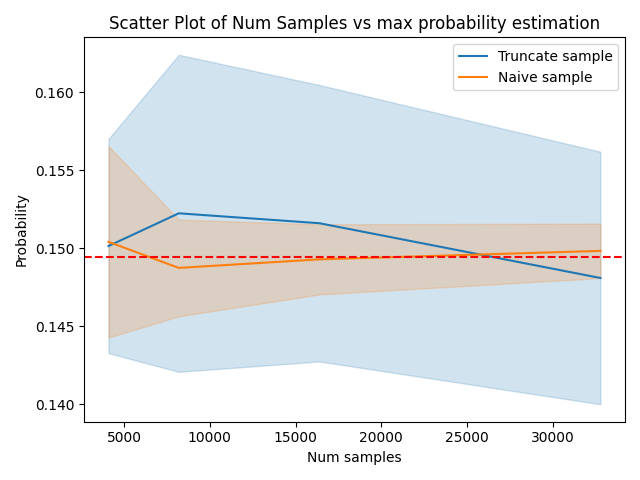
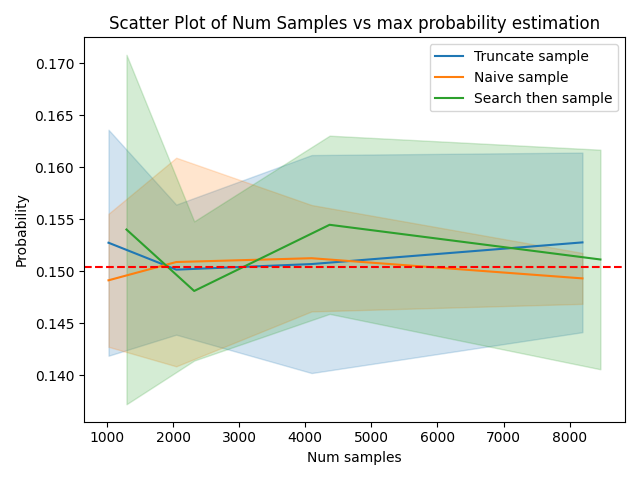
binary search doesnt really help either

diff --git a/logit-estimation/estimators.py b/logit-estimation/estimators.py
@@ -8,13 +8,14 @@ from torch.distributions import Categorical, kl_divergence
 
 @dataclass
 class Output:
-    samples: list[int]
-    true_dist: torch.distributions.Distribution | None
+    samples: list[int] | None = None
+    argmax: int | None = None
+    true_dist: torch.distributions.Distribution | None = None
 
 
 class Sampler(ABC):
     @abstractmethod
-    def sample(self, prefix, n, logit_bias):
+    def sample(self, prefix, n, logit_bias, temperature):
         ...
 
 def construct_logit_bias_tensor(logit_bias_dict, vocab_size):
@@ -28,8 +29,25 @@ class HfSampler(Sampler):
         self.model = AutoModelForCausalLM.from_pretrained(model, torch_dtype=torch.bfloat16)
         self.tokenizer = AutoTokenizer.from_pretrained(model)
         self.vocab_size = len(self.tokenizer)
+        self.cached_logits = None
 
-    def sample(self, prefix, K, logit_bias=None):
+    def sample(self, prefix, K, logit_bias=None, temperature=1):
+        logits = (
+            self.get_true_logits(prefix, K)
+            if self.cached_logits is None
+            else self.cached_logits
+        )
+        if logit_bias is not None:
+            logits = logits + construct_logit_bias_tensor(logit_bias, len(logits))
+
+        true_dist = Categorical(logits=logits)
+        return Output(
+            samples = true_dist.sample_n(K),
+            argmax = logits.argmax().item(),
+            true_dist = true_dist,
+        )
+
+    def get_true_logits(self, prefix, K):
         inputs = self.tokenizer([prefix], return_tensors="pt")
         outputs = self.model.generate(
             **inputs,
@@ -39,25 +57,23 @@ class HfSampler(Sampler):
             do_sample=True,
             #num_return_sequences=1,
         )
-
-        logits = outputs.scores[0][0]
-        if logit_bias is not None:
-            logits = logits + construct_logit_bias_tensor(logit_bias, len(logits))
-        true_dist = Categorical(logits=logits)
-        return Output(
-            samples = true_dist.sample_n(K),
-            true_dist = true_dist,
-        )
+        logits = outputs.scores[0][0].log_softmax(0)
+        self.cached_logits = logits
+        return logits
 
 
 class Estimator:
-    def __init__(self, vocab_size, threshold = 10):
+    def __init__(self, vocab_size, threshold = 10, estimated_logits=None, idxs=None):
         self.vocab_size = vocab_size
         self.samples = []
         self.weights = []
         self.Zs = torch.zeros(vocab_size, dtype=torch.float64)
         self.counts = torch.zeros(vocab_size, dtype=torch.int32)
         self.threshold = threshold
+
+        # already estimated
+        self.estimated_logits = estimated_logits
+        self.idxs = idxs
 
     def add_sample(self, sample_output, weight=1., allowed_words=None):
         for sample in sample_output.samples:
@@ -78,13 +94,20 @@ class Estimator:
     def mean(self):
         if len(self.samples) == 0:
             return None
-        probs = torch.zeros(self.vocab_size) + 1e-75 # smoothing
+        probs = torch.zeros(self.vocab_size) + 1e-20 # smoothing
         probs.scatter_add_(
             0,
             torch.tensor(self.samples, dtype=torch.int64),
             torch.tensor(self.weights),
         )
         probs /= self.Zs
+
+        if self.estimated_logits is not None:
+            #Z1 = probs.log().logsumexp(0)
+            #Z2 = self.estimated_logits.logsumexp(0)
+            P = probs[self.idxs].sum()
+            #import pdb; pdb.set_trace()
+            #probs[self.idxs] = self.estimated_logits.softmax(0) * P
         return probs / probs.sum()
 
     def weight(self):
@@ -93,7 +116,40 @@ class Estimator:
         return 1. - mean[words].sum() if mean is not None else 1., words
 
     def confident_words(self):
-        return (self.counts > self.threshold).nonzero()[:,0].tolist()
+        words = (self.counts > self.threshold).nonzero()[:,0].tolist()
+        return words
+        return (
+            list(set(words + self.idxs))
+            if self.idxs is not None
+            else words
+        )
+
+
+def binary_search(sampler, prefix, logit_bias, low=-0.5, high=0, eps=1e-5):
+    logit_bias = logit_bias.copy()
+    idx = sampler.sample(prefix, 1, logit_bias, temperature=0).argmax
+    logit_bias[idx] = low
+
+    #print(sampler.cached_logits.topk(2).values[0] - sampler.cached_logits.topk(2).values[1])
+    num_calls = 1
+    # double low if it's not low enough
+    while sampler.sample(prefix, 1, logit_bias, temperature=0).argmax == idx:
+        low *= 2
+        logit_bias[idx] = low
+        num_calls += 1
+
+    # improve estimate
+    mid = (high + low) / 2
+    while high > low + eps:
+        logit_bias[idx] = mid
+        if sampler.sample(prefix, 1, logit_bias, temperature=0).argmax == idx:
+            high = mid
+        else:
+            low = mid
+        mid = (high + low) / 2
+        num_calls += 1
+    return mid, idx, num_calls
+
 
 def estimate(sampler, prefix, K, T, threshold):
     estimator = Estimator(sampler.vocab_size, threshold)
@@ -104,14 +160,43 @@ def estimate(sampler, prefix, K, T, threshold):
         sample_output = sampler.sample(prefix, K, logit_bias)
         allowed_words = [x for x in range(sampler.vocab_size) if x not in logit_bias]
         estimator.add_sample(sample_output, weight, allowed_words=allowed_words)
-    return estimator
+    return estimator, K*T
 
 def naive_estimate(sampler, prefix, K):
     estimator = Estimator(sampler.vocab_size)
     sample_output = sampler.sample(prefix, K, dict())
     estimator.add_sample(sample_output)
-    return estimator
+    return estimator, K
 
+def search(sampler, prefix, topk, logit_bias, bias=-100):
+    logit_bias = logit_bias.copy()
+
+    diffs = []
+    idxs = []
+    total_calls = 0
+    for _ in range(16):
+        logit_diff, idx, num_calls = binary_search(sampler, prefix, logit_bias)
+        logit_bias[idx] = bias
+        diffs.append(logit_diff)
+        idxs.append(idx)
+        total_calls += num_calls
+
+    estimated_logits = torch.tensor(diffs).cumsum(0)
+    return idxs, estimated_logits, logit_bias, total_calls
+
+def search_then_estimate(sampler, prefix, K, T, threshold):
+    idxs, estimated_logits, logit_bias, total_calls = search(sampler, prefix, 16, dict())
+
+    bias = -100
+    estimator = Estimator(sampler.vocab_size, threshold,
+        estimated_logits=estimated_logits, idxs=idxs)
+    for t in range(T):
+        weight, words = estimator.weight()
+        logit_bias = {word: bias for word in words}
+        sample_output = sampler.sample(prefix, K, logit_bias)
+        allowed_words = [x for x in range(sampler.vocab_size) if x not in logit_bias]
+        estimator.add_sample(sample_output, weight, allowed_words=allowed_words)
+    return estimator, total_calls + K*T
 
 if __name__ == "__main__":
     import pandas as pd
@@ -121,8 +206,12 @@ if __name__ == "__main__":
     llama = "meta-llama/Llama-2-7b-chat-hf"
     gpt = "gpt2"
 
-    model = llama
-    prefix = "[INST] <<SYS>>\nYou are a helpful assistant.\n<</SYS>>\nHi [/INST]"
+    model = gpt
+    if model == llama:
+        prefix = "[INST] <<SYS>>\nYou are a helpful assistant.\n<</SYS>>\nHi [/INST]"
+    else:
+        prefix = "hi"
+
 
     # test sampling
     sampler = HfSampler(model)
@@ -133,52 +222,67 @@ if __name__ == "__main__":
     K = 512
     tau = K // 2
 
-    #Ts = [2, 4, 8, 16, 32]
-    Ts = [8, 16, 32, 64]
+    Ts = [2, 4, 8, 16]
+    #Ts = [8, 16, 32, 64]
 
     method_list = []
     samples_list = []
     kl_list = []
 
     max_prob_list = []
-    prob_25_list = []
-    prob_50_list = []
-    prob_75_list = []
+    prob_5_list = []
+    prob_10_list = []
+    prob_20_list = []
+    prob_30_list = []
 
     for _ in range(10):
         for T in Ts:
             # test estimation
-            e1 = estimate(sampler, prefix, K, T, tau)
-            e2 = naive_estimate(sampler, prefix, K*T)
+            e1, c1 = estimate(sampler, prefix, K, T, tau)
+            e2, c2 = naive_estimate(sampler, prefix, K*T)
+            e3, c3 = search_then_estimate(sampler, prefix, K, T, tau)
             mu1 = e1.mean()
             mu2 = e2.mean()
+            mu3 = e3.mean()
             kl1 = kl_divergence(true_dist, Categorical(probs=mu1)).item()
             kl2 = kl_divergence(true_dist, Categorical(probs=mu2)).item()
+            kl3 = kl_divergence(true_dist, Categorical(probs=mu3)).item()
 
             method_list.append("Truncate sample")
             method_list.append("Naive sample")
-            samples_list.append(K*T)
-            samples_list.append(K*T)
+            method_list.append("Search then sample")
+            samples_list.append(c1)
+            samples_list.append(c2)
+            samples_list.append(c3)
             kl_list.append(kl1)
             kl_list.append(kl2)
+            kl_list.append(kl3)
 
             max_prob_list.append(mu1.max().item())
             max_prob_list.append(mu2.max().item())
-            prob_25_list.append(mu1.topk(25).values[-1].item())
-            prob_25_list.append(mu2.topk(25).values[-1].item())
-            prob_50_list.append(mu1.topk(50).values[-1].item())
-            prob_50_list.append(mu2.topk(50).values[-1].item())
-            prob_75_list.append(mu1.topk(75).values[-1].item())
-            prob_75_list.append(mu2.topk(75).values[-1].item())
+            max_prob_list.append(mu3.max().item())
+            prob_5_list.append(mu1.topk(5).values[-1].item())
+            prob_5_list.append(mu2.topk(5).values[-1].item())
+            prob_5_list.append(mu3.topk(5).values[-1].item())
+            prob_10_list.append(mu1.topk(10).values[-1].item())
+            prob_10_list.append(mu2.topk(10).values[-1].item())
+            prob_10_list.append(mu3.topk(10).values[-1].item())
+            prob_20_list.append(mu1.topk(20).values[-1].item())
+            prob_20_list.append(mu2.topk(20).values[-1].item())
+            prob_20_list.append(mu3.topk(20).values[-1].item())
+            prob_30_list.append(mu1.topk(30).values[-1].item())
+            prob_30_list.append(mu2.topk(30).values[-1].item())
+            prob_30_list.append(mu3.topk(30).values[-1].item())
 
 
     df = pd.DataFrame({
         "x": samples_list,
         "y": kl_list,
         "max": max_prob_list,
-        "25": prob_25_list,
-        "50": prob_50_list,
-        "75": prob_75_list,
+        "5": prob_5_list,
+        "10": prob_10_list,
+        "20": prob_20_list,
+        "30": prob_30_list,
         "method": method_list,
     })
     sns.lineplot(data=df, x="x", y="y", hue="method", errorbar="sd")
@@ -201,32 +305,42 @@ if __name__ == "__main__":
     plt.savefig("figures/truncated_samples_max.png")
     plt.clf()
 
-    sns.lineplot(data=df, x="x", y="25", hue="method", errorbar="sd")
-    plt.axhline(y=true_dist.probs.topk(25).values[-1].item(), color="red", linestyle="--")
-    plt.title("Scatter Plot of Num Samples vs 25th rank probability estimation")
+    sns.lineplot(data=df, x="x", y="5", hue="method", errorbar="sd")
+    plt.axhline(y=true_dist.probs.topk(5).values[-1].item(), color="red", linestyle="--")
+    plt.title("Scatter Plot of Num Samples vs 5th rank probability estimation")
     plt.xlabel("Num samples")
     plt.ylabel("Probability")
     plt.legend()
     plt.tight_layout()
-    plt.savefig("figures/truncated_samples_25.png")
+    plt.savefig("figures/truncated_samples_5.png")
     plt.clf()
 
-    sns.lineplot(data=df, x="x", y="50", hue="method", errorbar="sd")
-    plt.axhline(y=true_dist.probs.topk(50).values[-1].item(), color="red", linestyle="--")
-    plt.title("Scatter Plot of Num Samples vs 50th rank probability estimation")
+    sns.lineplot(data=df, x="x", y="10", hue="method", errorbar="sd")
+    plt.axhline(y=true_dist.probs.topk(10).values[-1].item(), color="red", linestyle="--")
+    plt.title("Scatter Plot of Num Samples vs 10th rank probability estimation")
     plt.xlabel("Num samples")
     plt.ylabel("Probability")
     plt.legend()
     plt.tight_layout()
-    plt.savefig("figures/truncated_samples_50.png")
+    plt.savefig("figures/truncated_samples_10.png")
     plt.clf()
 
-    sns.lineplot(data=df, x="x", y="75", hue="method", errorbar="sd")
-    plt.axhline(y=true_dist.probs.topk(75).values[-1].item(), color="red", linestyle="--")
-    plt.title("Scatter Plot of Num Samples vs 75th rank probability estimation")
+    sns.lineplot(data=df, x="x", y="20", hue="method", errorbar="sd")
+    plt.axhline(y=true_dist.probs.topk(20).values[-1].item(), color="red", linestyle="--")
+    plt.title("Scatter Plot of Num Samples vs 20th rank probability estimation")
     plt.xlabel("Num samples")
     plt.ylabel("Probability")
     plt.legend()
     plt.tight_layout()
-    plt.savefig("figures/truncated_samples_75.png")
+    plt.savefig("figures/truncated_samples_20.png")
+    plt.clf()
+
+    sns.lineplot(data=df, x="x", y="30", hue="method", errorbar="sd")
+    plt.axhline(y=true_dist.probs.topk(30).values[-1].item(), color="red", linestyle="--")
+    plt.title("Scatter Plot of Num Samples vs 30th rank probability estimation")
+    plt.xlabel("Num samples")
+    plt.ylabel("Probability")
+    plt.legend()
+    plt.tight_layout()
+    plt.savefig("figures/truncated_samples_30.png")
     plt.clf()
